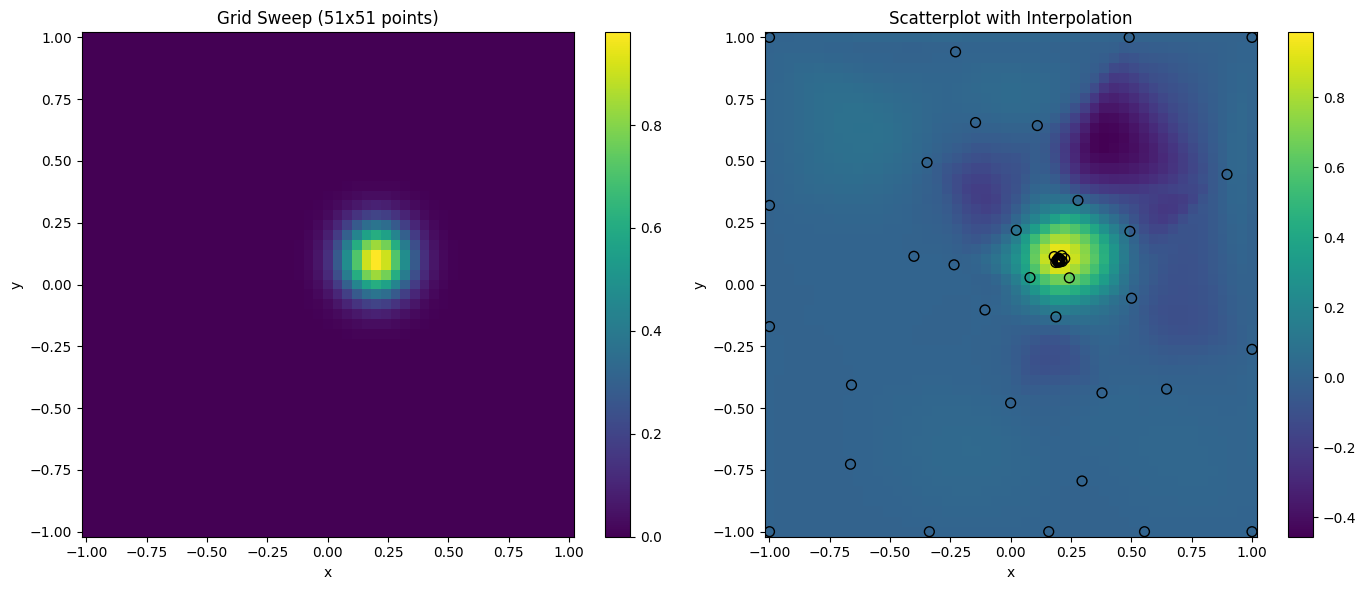
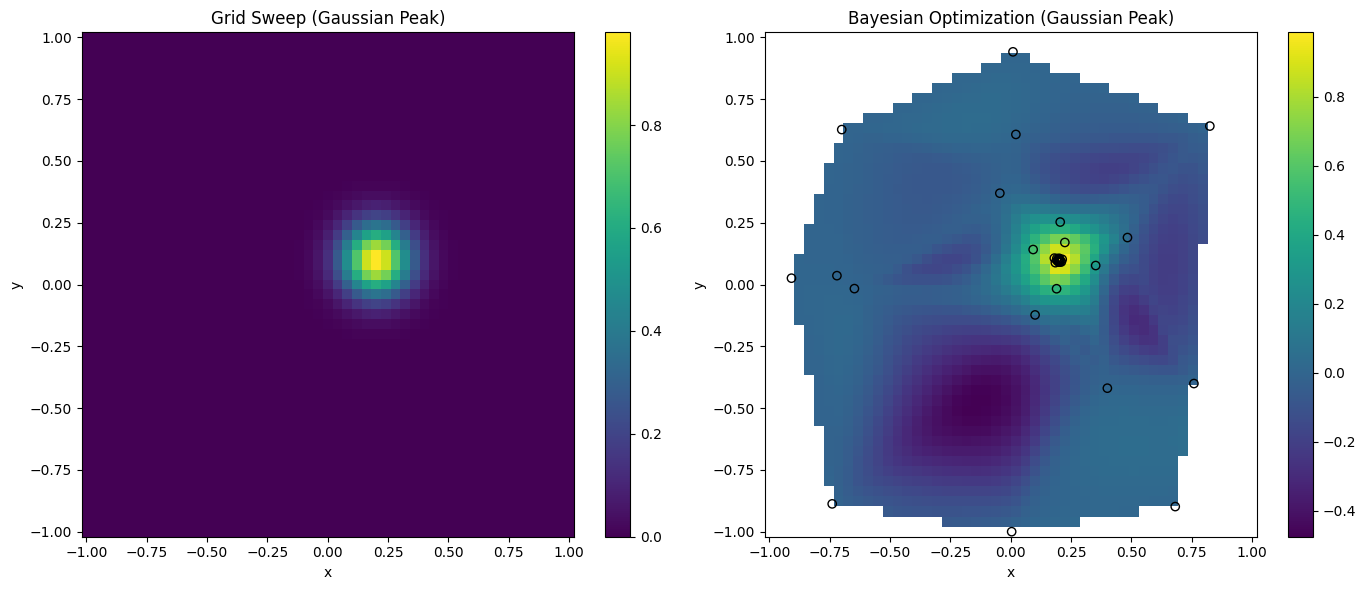
update

diff --git a/README.md b/README.md
@@ -5,11 +5,7 @@ This tutorial is just to showcase a basic implementation of Bayesian optimizatio
 
 ![top view](figures/output_1.png)
 
-### Now with 90% exploitation & 10% exploration
+### Now with 90% exploitation & 10% exploration | scalarized inputs, standardized outputs in model fitting 
 
 ![top view](figures/output_2.png)
-
-### Now showing the model's confidence
-
-![top view](figures/output_3.png)
 
